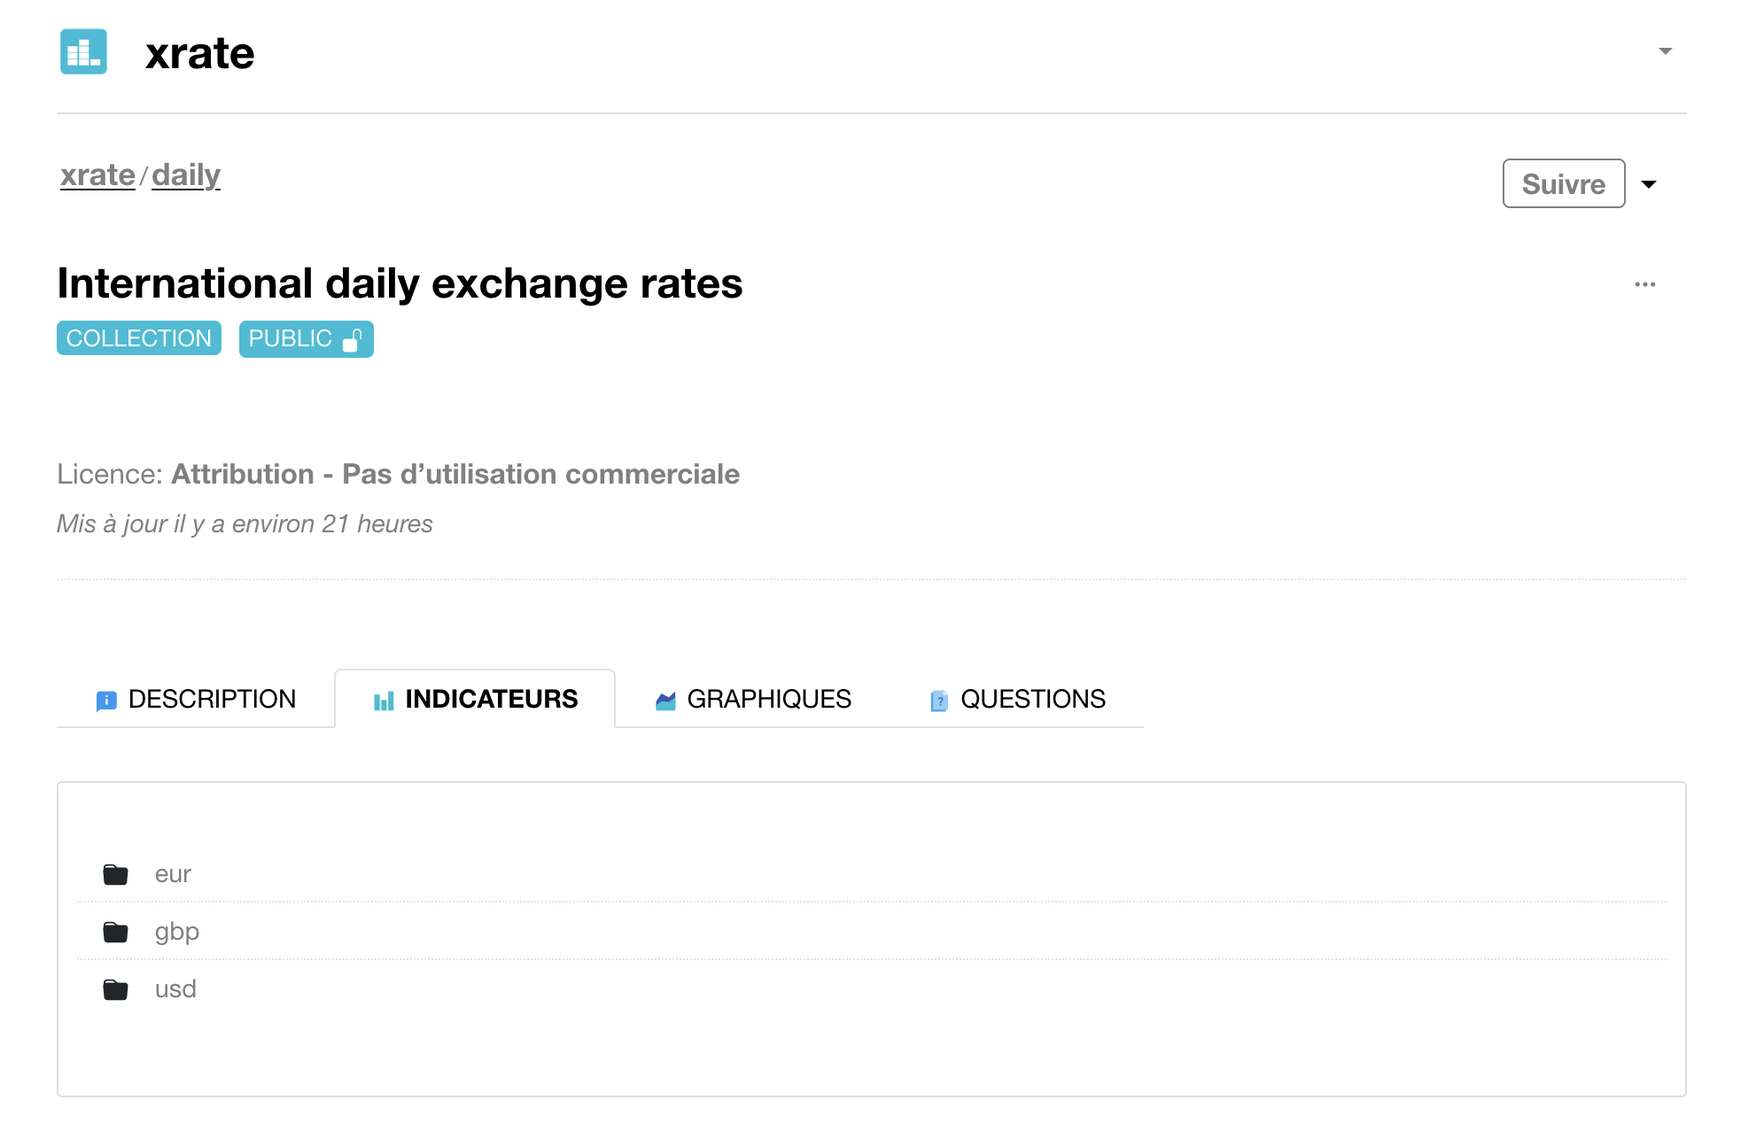
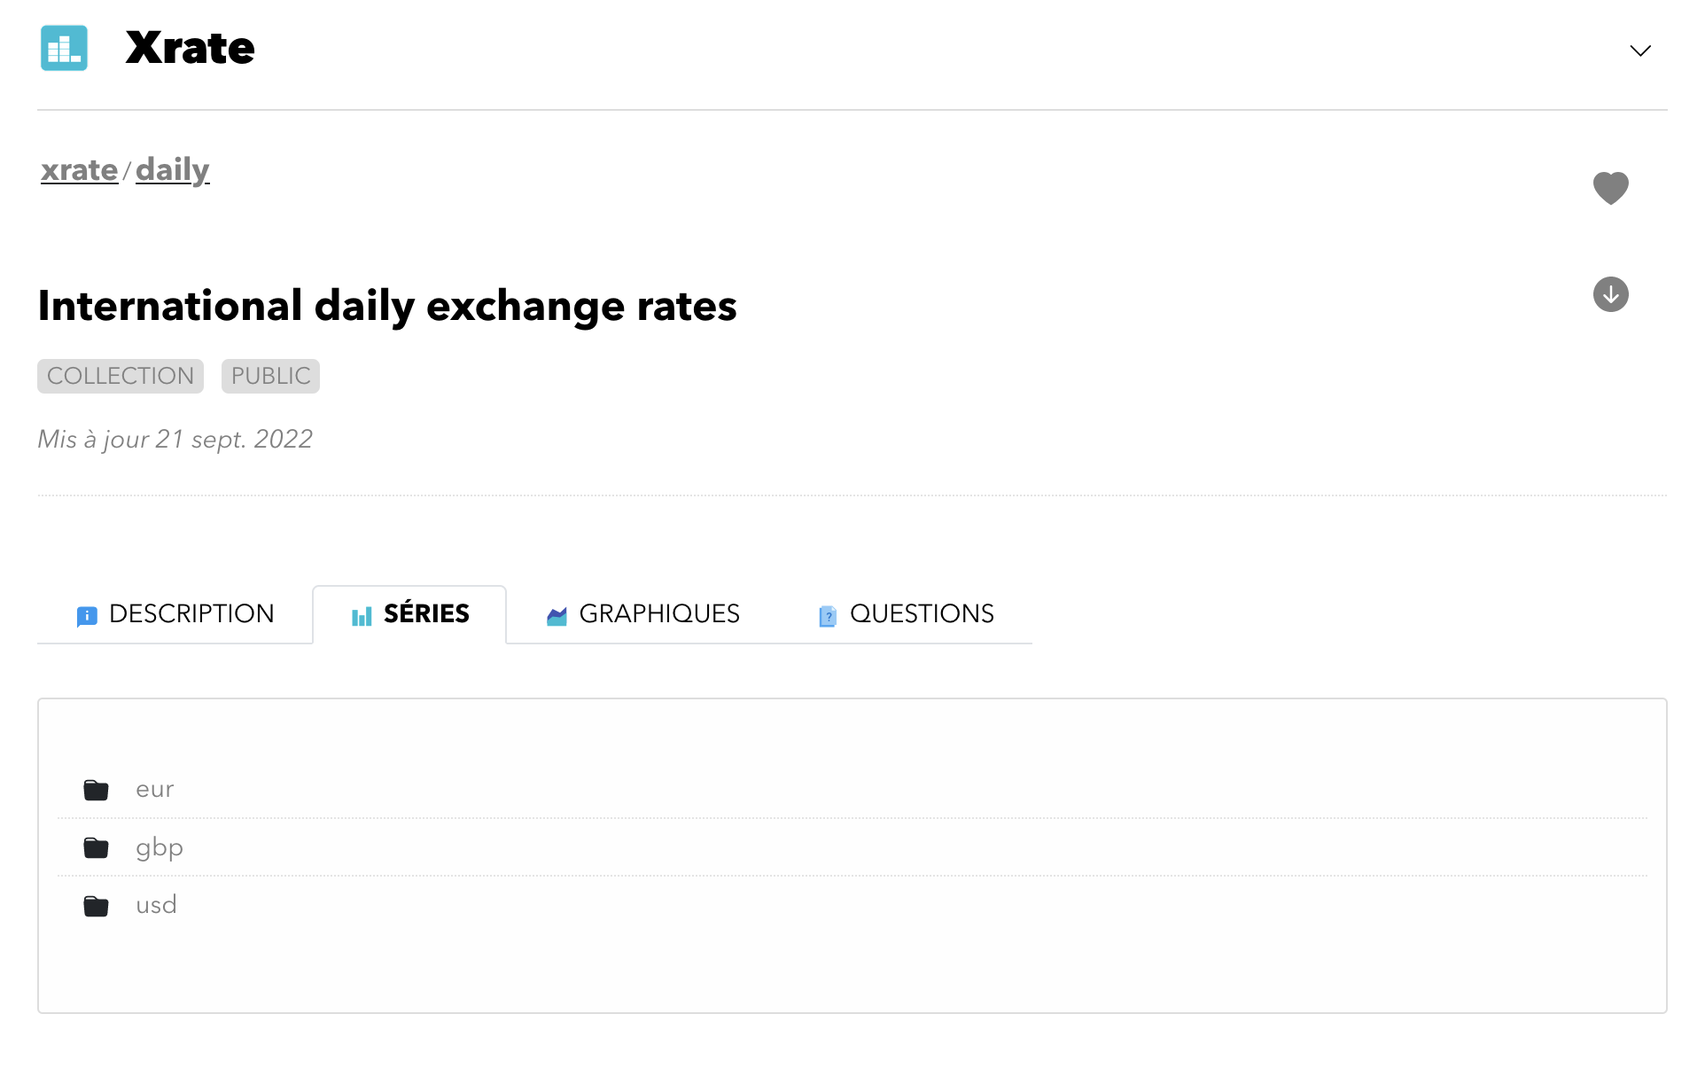
2022-09-22

diff --git a/docs/gs/index.md b/docs/gs/index.md
@@ -1,20 +1,20 @@
-# Une plateforme de séries temporelles
+# Une plateforme d'indicateurs
 
-Statit est une plateforme de séries temporelles.
+Statit est une plateforme d'indicateurs.
 
-## Les séries
+## Les indicateurs
 
-**Les séries temporelles réprésentent une valeur dans le temps**.
+**Les indicateurs réprésentent une valeur dans le temps**.
 
-On trouve des séries temporelles dans de nombreux domaines: économie, finance, entreprise, sciences sociales et environnementales ...
+On trouve des indicateurs dans de nombreux domaines: économie, finance, entreprise, sciences sociales et environnementales ...
 
-Par exemple, la température moyenne quotidienne à Copenhague, l'indice mensuel de confiance dans le bâtiment en France, les volumes d'exportations hebdomadaires de blé en Roumanie sont des séries.
+Par exemple, la température moyenne quotidienne à Copenhague, l'indice mensuel de confiance dans le bâtiment en France, les volumes d'exportations hebdomadaires de blé en Roumanie sont des indicateurs.
 
-**Sur Statit, nous utiliserons le terme 'séries'** à la place de séries temporelles pour nous simplifier la vie.
+**Sur Statit, nous pourrons utiliser le terme de séries** à la place d'indicateur. Un indicateur, c'est une série de valeurs. Dans tous les cas, nous voulons dire la même chose.
 
 Statit n'héberge que des séries et chaque **série a un identifiant unique** sur la plateforme.
 
-Voilà trois séries avec leur identifiant:
+Voilà trois séries avec leurs identifiants:
 
 - Température moyenne dans la région de Copenhague: [clim/copernicus-r/daily/dk01/temp/real](https://www.gostatit.com/clim/copernicus-r/daily/dk01/temp/real)
 - Indice de climat des affaires dans le bâtiment en France: [bdfconj/consn/bat/total/ica/cvs_3m](https://www.gostatit.com/bdfconj/consn/bat/total/ica/cvs_3m)
@@ -34,23 +34,17 @@ Sur la page de la série, vous pouvez lire:
 
 Et en dessous:
 
-- la **fréquence des observations**: jour, semaine, mois, trimestre ou année
-- l'**unité**: kilogramme, degré Celsius ...
-- les **sources**
+- la **fréquence des observations**: jour
+- l'**unité**: degrés Celsius ...
+- les **sources**: le service Copernicus
 - les dates de début, de fin et de dernière mise à jour
 
-En dessous, vous pouvez visualiser la série. Si vous passez votre curseur sur le graphique, vous pourrez voir aux valeurs.
-
-Finalement dans le bas du graphique, la zone de couleur grise vous permet de sélectionner une période particulière.
-
-Essayez par exemple de sélectionner l'année 2021 en tirant la "poignée gauche" vers la droite.
-
-![xrate/daily](/img/user-fr_gs_index_1.png){: style="width:700px;margin:30px;padding:20px;border:1px solid #ddd;border-radius:5px"}
+En dessous, vous pouvez visualiser la série. Si vous passez votre curseur sur le graphique, vous pourrez voir les valeurs.
 
 
 ## Lire les valeurs
 
-Vous pouvez cliquer sur les petites icônes au dessus du graphique à gauche pour obtenir une vue graphique avec des barres ou avec des valeurs.
+Vous pouvez cliquer sur les icônes au dessus du graphique à gauche pour obtenir une vue graphique avec des barres ou un tableau avec des valeurs.
 
 ![xrate/daily](/img/user-fr_gs_metrics_3.png){: style="width:700px;margin:30px;padding:20px;border:1px solid #ddd;border-radius:5px"}
 
@@ -61,30 +55,28 @@ Vous pouvez ensuite trier les valeurs par date ou par valeur  en cliquant sur le
 
 En haut à droite du graphique, vous pouvez voir un bouton avec une flèche vers le bas. Cliquez dessus.
 
-Vous pouvez télécharger le graphique ou les valeurs de la série dans le format que vous souhaitez (Excel ou CSV).
+Vous pouvez télécharger le graphique ou les valeurs de la série dans le format que vous souhaitez (Excel ou CSV, horizontalement ou verticalement).
 
-Vous devrez [créer un compte](https://www.gostatit.com/sign) pour télécharger les données. C'est gratuit et prend 2 minutes. [Allez y!!](https://www.gostatit.com/sign)
+Vous devrez [créer un compte](https://www.gostatit.com/sign) pour cela. C'est gratuit et prend 2 minutes. Essayez!
 
 ![xrate/daily](/img/user-fr_gs_metrics_4.png){: style="width:400px;margin:30px;padding:20px;border:1px solid #ddd;border-radius:5px"}
 
 
 ## Analyser la série simplement
 
-Si vous souhaitez faire des premières analyses sur la série pour mieux mettre en perspective les valeurs, cliquez sur l'icône à droite du menu de téléchargement.
+Si vous souhaitez faire des premières analyses sur la série, cliquez sur l'icône à droite du menu de téléchargement.
 
-Vous pouvez aggréger les valeurs sur une différente période de temps ou réaliser quelques transformations (observer les variations entre valeurs).
+Vous pouvez agréger les valeurs sur une différente période de temps ou réaliser quelques transformations (observer les variations entre valeurs).
 
 
 ## Public ou privé
 
-Vous avez remarqué probablement que vous avez pu consulter la série au-dessus sans avoir besoin de créer un compte ou de vous connecter.
+Vous avez pu consulter la série sans avoir besoin de créer un compte ou de vous connecter.
 
-Statit héberge à la fois des séries "publiques" accessibles à tous sur Internet et des séries privées uniquement accessibles à un utilisateur ou une équipe.
+En effet, Statit héberge à la fois des séries "publiques" accessibles à tous sur Internet et des séries privées uniquement accessibles à un utilisateur ou une équipe.
 
 Nous nous appuierons sur les séries publiques dans le guide utilisateur.
 
 ## Prochaines étapes
 
-Bien joué, vous avez visualisé une ou plusieurs séries.
-
-Nous allons maintenant vous expliquer comment les séries sont organisées dans des [collections](collections.md).
+Vous avez visualisé une ou plusieurs séries. Nous allons maintenant vous expliquer comment les séries sont organisées dans des [collections](collections.md).

diff --git a/docs/gs/collections.md b/docs/gs/collections.md
@@ -1,14 +1,14 @@
 # Les collections
 
-Les séries sont organisées dans des **collections**.
+Sur Statit, les séries sont groupées dans des **collections**.
 
-Les collections contiennent **des séries qui se ressemblent**, provenant d'une même source ou traitant du même sujet.
+Comme pour des livres, les collections contiennent **des séries qui se ressemblent**, provenant d'une même source ou traitant du même sujet.
 
-Comme les séries, les collections ont des identifiants uniques sur Statit. Nous allons utiliser les trois suivantes:
+De même que les séries, les collections ont des identifiants uniques. Voilà trois exemples:
 
 - Taux de change internationaux quotidiens: [xrate/daily](https://www.gostatit.com/xrate/daily)
-- Taux hebdomadaires: [xrate/weekly](https://www.gostatit.com/xrate/weekly)
-- Taux mensuels: [xrate/monthly](https://www.gostatit.com/xrate/monthly)
+- Historiques et prévisions de production de céréales mondiales par l'USDA: [psd/sd-grains](https://www.gostatit.com/psd/sd-grains)
+- Les prix mondiaux des commodités par la Banque Mondiale: [world-bank/pink](https://www.gostatit.com/world-bank/pink)
 
 ## Présentation
 
@@ -16,42 +16,40 @@ Cliquez sur le premier lien.
 
 ![Collection](/img/user-fr_gs_org_1.png){: style="width:700px;margin:30px;padding:20px;border:1px solid #ddd;border-radius:5px"}
 
-En haut à gauche, 'xrate' est le nom du compte qui héberge les séries.
+En haut à gauche, Xrate est le nom du compte qui publie les séries.
 
-Ce compte est 'public' et visible par tout le monde sur Internet. Ce n'est pas le cas des comptes privés, uniquement visibles par leurs membres.
+Ce compte est public et visible par tout le monde sur Internet. Ce n'est pas le cas des comptes privés qui sont uniquement visibles par leurs membres.
 
-Un petit peu en dessous, vous trouverez des liens en gris [xrate](https://www.gostatit.com/xrate) / [daily](https://www.gostatit.com/xrate/daily). Ces liens nous permettent de naviguer dans la collection.
+Un petit peu en dessous, vous trouverez des liens en gris [xrate](https://www.gostatit.com/xrate) / [daily](https://www.gostatit.com/xrate/daily). Ces liens vont vous permettre de naviguer dans la collection.
 
-En dessous, vous trouverez le nom de la collection (ici "International daily exchange rates").
+En dessous, vous trouverez le nom de la collection: International daily exchange rates.
 
 
 ## Les onglets
 
 Une collection contient trois ou quatre onglets:
 
-- Description - l'objectif de la collection, son contenu, son organisation, ses sources ...
-- Séries - les **séries**
-- Graphiques - dans certaines collections, des graphiques
-- Questions - un endroit pour poser des questions sur les séries
+- Description - la description de la collection, son objectif, son contenu, son organisation, ses sources ...
+- Séries - les séries elles-mêmes, c'est à dire les données brutes
+- Graphiques - dans certaines collections, des graphiques utilisant des séries
+- Questions - un forum de questions et réponses sur la collection
 
 
 ## Les séries
 
-Les séries sont organisées comme des fichiers sur un ordinateur.
+Les séries sont organisées dans les collections de la même manière que des fichiers sur un ordinateur.
 
-Pour trouver la série qui vous intéresse, il faut naviguer dans les répertoires en cliquant dessus (un seul clic).
-
-Cliquez sur l'onglet [Séries](https://www.gostatit.com/xrate/daily?tab=metrics).
+Pour trouver la série qui vous intéresse, il faut naviguer dans les répertoires en cliquant dessus. Cliquez sur l'onglet [Séries](https://www.gostatit.com/xrate/daily?tab=metrics).
 
 ![xrate/daily](/img/user-fr_gs_metrics_0.png){: style="width:700px;margin:30px;padding:20px;border:1px solid #ddd;border-radius:5px"}
 
 Vous pouvez voir trois répertoires contenant:
 
 - eur - les taux de change par rapport à l'Euro
-- gbp - les taux de change par rapport à la Livre britannique (gbp correspond à Great British Pound)
-- usd - les taux de change par rapport au Dollar américain (usd correspond à United States Dollar)
+- gbp - les taux de change par rapport à la Livre britannique (gbp signifie Great British Pound)
+- usd - les taux de change par rapport au Dollar américain (usd signifie United States Dollar)
 
-## Descendre la collection
+## Parcourir la collection
 
 Cliquez maintenant sur [eur](https://www.gostatit.com/xrate/daily/eur). Vous voyez une liste de séries précédées par un petit graphique à barres. Vous y êtes presque.
 
@@ -62,15 +60,14 @@ Dans cette collection, les séries sont nommées avec des codes en trois lettres
 - "aud" est le dollar australien (Australian Dollar)
 - "brl" est le réal brésilien (Brazilian Real)...
 
-Cliquez sur [cny](https://www.gostatit.com/xrate/daily/eur/cny). C'est le Yuan chinois.
+Entrez usd dans la cellule de recherche, puis cliquez sur [usd](https://www.gostatit.com/xrate/daily/eur/usd) quand la série apparait.
 
 ![xrate/daily](/img/user-fr_gs_metrics_2.png){: style="width:700px;margin:30px;padding:20px;border:1px solid #ddd;border-radius:5px"}
 
-Cette logique de navigation, basée sur des codes logiques ou explicites, sera la même dans l'ensemble des collections.
 
 ## Remonter la collection
 
-Pour remonter dans la collection, vous pouvez cliquer sur les liens gris en haut de l'écran.
+Pour remonter dans la collection, vous pouvez cliquer sur les liens gris en haut.
 
 Si vous souhaitez revenir au niveau du compte, cliquez sur [xrate](https://www.gostatit.com/xrate). Si vous souhaitez retourner à la collection, cliquez sur [daily](https://www.gostatit.com/xrate/daily)
 

diff --git a/docs/excel/index.md b/docs/excel/index.md
@@ -1,10 +1,12 @@
 # Le complément Excel
 
-Si vous souhaitez utiliser les séries dans Microsoft Excel, vous pouvez utiliser un complément qui vous permettra de télécharger les séries directement dans Excel.
+Cette section explique comment accéder aux séries directement dans Microsoft Excel avec le complément Statit.
 
 ## Connexion au compte
 
-Vous devez créer un compte pour utiliser Statit dans Excel. Si vous n'avez pas encore de compte, créez en un [ici](https://gostatit.com/sign). Si vous souhaitez suivre le tutorial, rendez-vous [ici](/favs/index.md).
+Vous devez créer un compte pour utiliser Statit dans Excel.
+
+Si vous n'avez pas encore de compte, créez en un [ici](https://gostatit.com/sign). Si vous souhaitez suivre le tutorial pour le faire, rendez-vous [ici](/gs/account.md).
 
 Si vous avez un compte, connectez-vous sur [ici](https://gostatit.com/sign).
 
@@ -22,27 +24,25 @@ Dans la fenêtre qui s’ouvre, renseignez « statit » dans la barre de recherc
 
 ![Installer complément](/img/user-fr_excel_index_2.png){: style="width:700px;margin:30px;padding:20px;border:1px solid #ddd;border-radius:5px"}
 
-Pensez à accepter la politique de confidentialité en cliquant sur « Continuer »
-
-![Installer complément](/img/user-fr_excel_index_3.png){: style="width:700px;margin:30px;padding:20px;border:1px solid #ddd;border-radius:5px"}
-
 Voilà ! À présent Statit est installé dans votre menu Excel.
 
 ![Installer complément](/img/user-fr_excel_index_4.png){: style="width:700px;margin:30px;padding:20px;border:1px solid #ddd;border-radius:5px"}
 
-Attention. Lorsque Microsoft Excel est administré par votre entreprise, il se peut que vous n'ayez pas les droits pour installer un complément. Si l'installation est refusée, demandez de l'aide à la personne qui gère votre réseau.
+Attention, lorsque Microsoft Excel est administré par votre entreprise, il se peut que vous n'ayez pas les droits pour installer un complément.
+
+Si l'installation est refusée, demandez de l'aide à la personne qui gère votre réseau.
 
 ## Authentification
 
-Pour commencer à utiliser Statit depuis Excel, cliquez sur le complément qui vient d’être installé.
+Pour commencer à utiliser Statit depuis Excel, cliquez sur le bouton 'Statit' dans le menu supérieur.
 
-Une fenêtre contextuelle s’ouvre à droite de votre feuille de calcul. Renseignez votre nom d’utilisateur « username » ainsi que la clé APU qui vous a été fournie à l’ouverture de votre compte.
+Une fenêtre s’ouvre à droite de votre feuille de calcul. Cliquez sur l'onglet 'Sign-In' en haut de la fenêtre.
 
-Vous retrouverez votre nom d'utilisateur et votre clé API dans la partie "Mon compte" à laquelle vous accédez par le menu en haut à droite de l'application quand vous êtes connecté.
+Renseignez votre nom d’utilisateur « username » ainsi que votre clé API. Vous retrouverez votre nom d'utilisateur et votre clé API dans la partie "Mon compte" à laquelle vous accédez par le menu en haut à droite de l'application quand vous êtes connecté.
 
 ![Installer complément](/img/user-fr_excel_index_5.png){: style="width:350px;margin:30px;padding:20px;border:1px solid #ddd;border-radius:5px"}
 
 
 ## Prochaines étapes
 
-Ca y est. Vous avez tout configuré. C'est le moment d'accéder aux séries dans la [prochaine section](/access.md)
+Ca y est. Vous avez tout configuré. C'est le moment d'accéder aux séries dans la [prochaine section](access.md)

diff --git a/docs/excel/access.md b/docs/excel/access.md
@@ -3,34 +3,38 @@
 Vous allez maintenant télécharger les séries directement dans Excel.
 
 
-## Charger un série
+## Télécharger un série
 
 Pour charger un série, inscrivez dans n’importe quelle cellule de votre fichier Excel l'identifiant d’un série d'une collection publique.
 
 Vous pouvez prendre par exemple le code eustat/apro_mk_colm/de/raw_milk_delivered qui correspond à la production totale de lait en Allemagne.
 
-Avec la cellule active sur l'série, cliquez sur "Go". Et voilà, après quelques secondes, l'série est chargé en dessous de la cellule
+Sélectionnez la cellule avec la série, cliquez sur "Go". Et voilà, après quelques secondes, l'série est chargé en dessous de la cellule
 
 ![Installer complément](/img/user-fr_excel_access_0.png){: style="width:600px;margin:30px;padding:20px;border:1px solid #ddd;border-radius:5px"}
 
 
-## Charger un série horizontalement
+## Télécharger un série horizontalement
 
-Une autre manière de charger l'série ci-dessus est d'écrire dans la cellule "get:eustat/apro_mk_colm/de/raw_milk_delivered" (sans mettre les guillemets).
+Une autre manière de charger la série ci-dessus est d'écrire dans la cellule 'get:eustat/apro_mk_colm/de/raw_milk_delivered' (sans mettre les guillemets '').
 
-Si get est utilisé pour récupérer un série, geth est utilisé pour récupérer un série de manière horizontale. A un autre endroit de la feuille, inscrivez "geth:eustat/apro_mk_colm/de/raw_milk_delivered" sans les guillemets. L'série apparait maintenant horizontalement
+'get' est utilisé pour récupérer un série verticalement. 'geth' est utilisé pour récupérer un série de manière horizontale.
+
+A un autre endroit de la feuille, inscrivez 'geth:eustat/apro_mk_colm/de/raw_milk_delivered' sans les guillemets.
+
+Sélectionnez la cellule. Cliquez go. La série apparait maintenant horizontalement
 
 
 ## Charger plusieurs séries différents
 
 Il est possible de charger en même temps plusieurs séries différents. Il suffit de les séparer par des virgules.
 
-La formule "get:xrate/monthly/eur/cad,xrate/monthly/eur/aud,xrate/monthly/eur/cny" permet de récupérer directement les trois séries de taux de change (CAD, AUD, CNY) contre l'Euro.
+La formule 'get:xrate/monthly/eur/cad,xrate/monthly/eur/aud,xrate/monthly/eur/usd' permet de récupérer directement les trois séries de taux de change (CAD, AUD, USD) contre l'Euro.
 
 
 ## Charger des séries d'une même collection
 
-Il est possible de charger des séries au sein d'une même collection ou qui possèdent les mêmes parents.
+Il est possible de charger des séries au sein d'une même collection (ou d'un même répertoire, souvenez vous, une collection est organisée comme un répertoire de fichiers).
 
 Par exemple, pour obtenir tous les séries de taux de change contre l'euro, vous utilisez la commande suivante "get:xrate/monthly/eur/\*". "\*" signifie l'ensemble des séries dont l'identifiant commence par "xrate/monthly/eur/".
 
@@ -38,4 +42,4 @@ Cette requête retourne 31 résultats.
 
 ## Prochaines étapes
 
-Nous avons évoqué les commandes simples pour obtenir des séries. Dans le guide de référence, vous retrouverez comment faire des téléchargements de gros avec la commande "batch"
+Nous avons évoqué les commandes simples pour obtenir des séries. Nous en fournirons plus dans le guide de référence.

diff --git a/docs/index.md b/docs/index.md
@@ -1,16 +1,16 @@
 # Bienvenue
 
-Bonjour, bienvenue sur le **guide utilisateur**.
+Bonjour, bienvenue sur le **guide utilisateur de Statit**.
 
-Statit est une plateforme de partage de séries temporelles. Ce guide va vous permettre de découvrir la plateforme et comment accéder aux séries.
-
-Si vous êtes déjà familier avec tout cela et souhaitez publier des séries, le guide est [ici](http://helppub_fr.gostatit.com)
+**Statit est une plateforme de partage d'indicateurs**. Ce guide va vous permettre de découvrir les bases de la plateforme et comment commencer à l'utiliser.
 
 Le guide est organisé en **trois parties**:
 
-* [**Démarrer**](gs/index.md) - comprendre comment Statit fonctionne et accéder aux séries
-* [**Suivre des séries**](favs/index.md) - créer un compte, enregistrer ses séries favorites, créer des alertes
-* [**Utiliser Excel**](excel/index.md) - accéder aux séries directement dans Excel
+* [**Démarrer**](gs/index.md) - comprendre comment Statit fonctionne, accéder aux indicateurs et créer un compte
+* [**Suivre des séries**](perso/index.md) - enregistrer ses indicateurs favoris, créer des alertes
+* [**Utiliser Excel**](excel/index.md) - accéder aux indicateurs directement dans Excel
+
+Si vous êtes déjà familier et souhaitez publier des séries, le guide est [ici](http://helppub_fr.gostatit.com)
 
 **Bon démarrage**. N'hésitez pas à [**nous écrire**](mailto:help@gostatit.com) pour toute question.
 

diff --git a/docs/gs/charts.md b/docs/gs/charts.md
@@ -4,13 +4,13 @@ Certaines collections peuvent contenir des graphiques.
 
 Les graphiques sont une manière utile de présenter les séries dans certains cas. Ils sont organisés au sein de 'tableaux' (tableaux de bord).
 
-Retournez sur la page d'accueil de la collection [xrate/daily](https://www.gostatit.com/xrate/daily) et cliquez sur l'onglet [GRAPHIQUES](https://www.gostatit.com/xrate/daily?tab=charts).
+Retournez sur la page d'accueil de la collection [xrate/daily](https://www.gostatit.com/xrate/daily) et cliquez sur l'onglet [GraphiqueS](https://www.gostatit.com/xrate/daily?tab=charts).
 
 Plusieurs tableaux s'affichent: americas, asia-pac et emea. Cliquez sur [asia-pac](https://www.gostatit.com/i/xrate/daily/asia-pac).
 
 ## Le tableau
 
-Le tableau commence avec un texte suivi de plusieurs graphiques.
+Le tableau commence avec un résumé suivi de plusieurs graphiques.
 
 Sur ce tableau, vous verrez un résumé des évolutions des taux de change de la zone Asie contre l'Euro et les principaux graphiques de la zone.
 

diff --git a/docs/gs/account.md b/docs/gs/account.md
@@ -1,8 +1,7 @@
 # Compte
 
-Si vous avez déjà un compte, vous pouvez directement passer à la section [Favoris et Alertes](/favs-alerts.md).
+Si vous avez déjà un compte, vous pouvez directement passer à la section [Favoris et Alertes](/perso).
 
-Sinon, pour créer un compte, suivez les indications ci-dessous.
 
 ## Création du compte
 
@@ -56,4 +55,4 @@ Nous reviendrons sur les autres éléments dans les autres sections.
 
 ## Prochaines étapes:
 
-Dans la prochaine section, nous allons créer des [favoris et alertes](/favs/favs-alerts.md).
+Dans la prochaine section, nous allons créer des [favoris et alertes](/perso).
